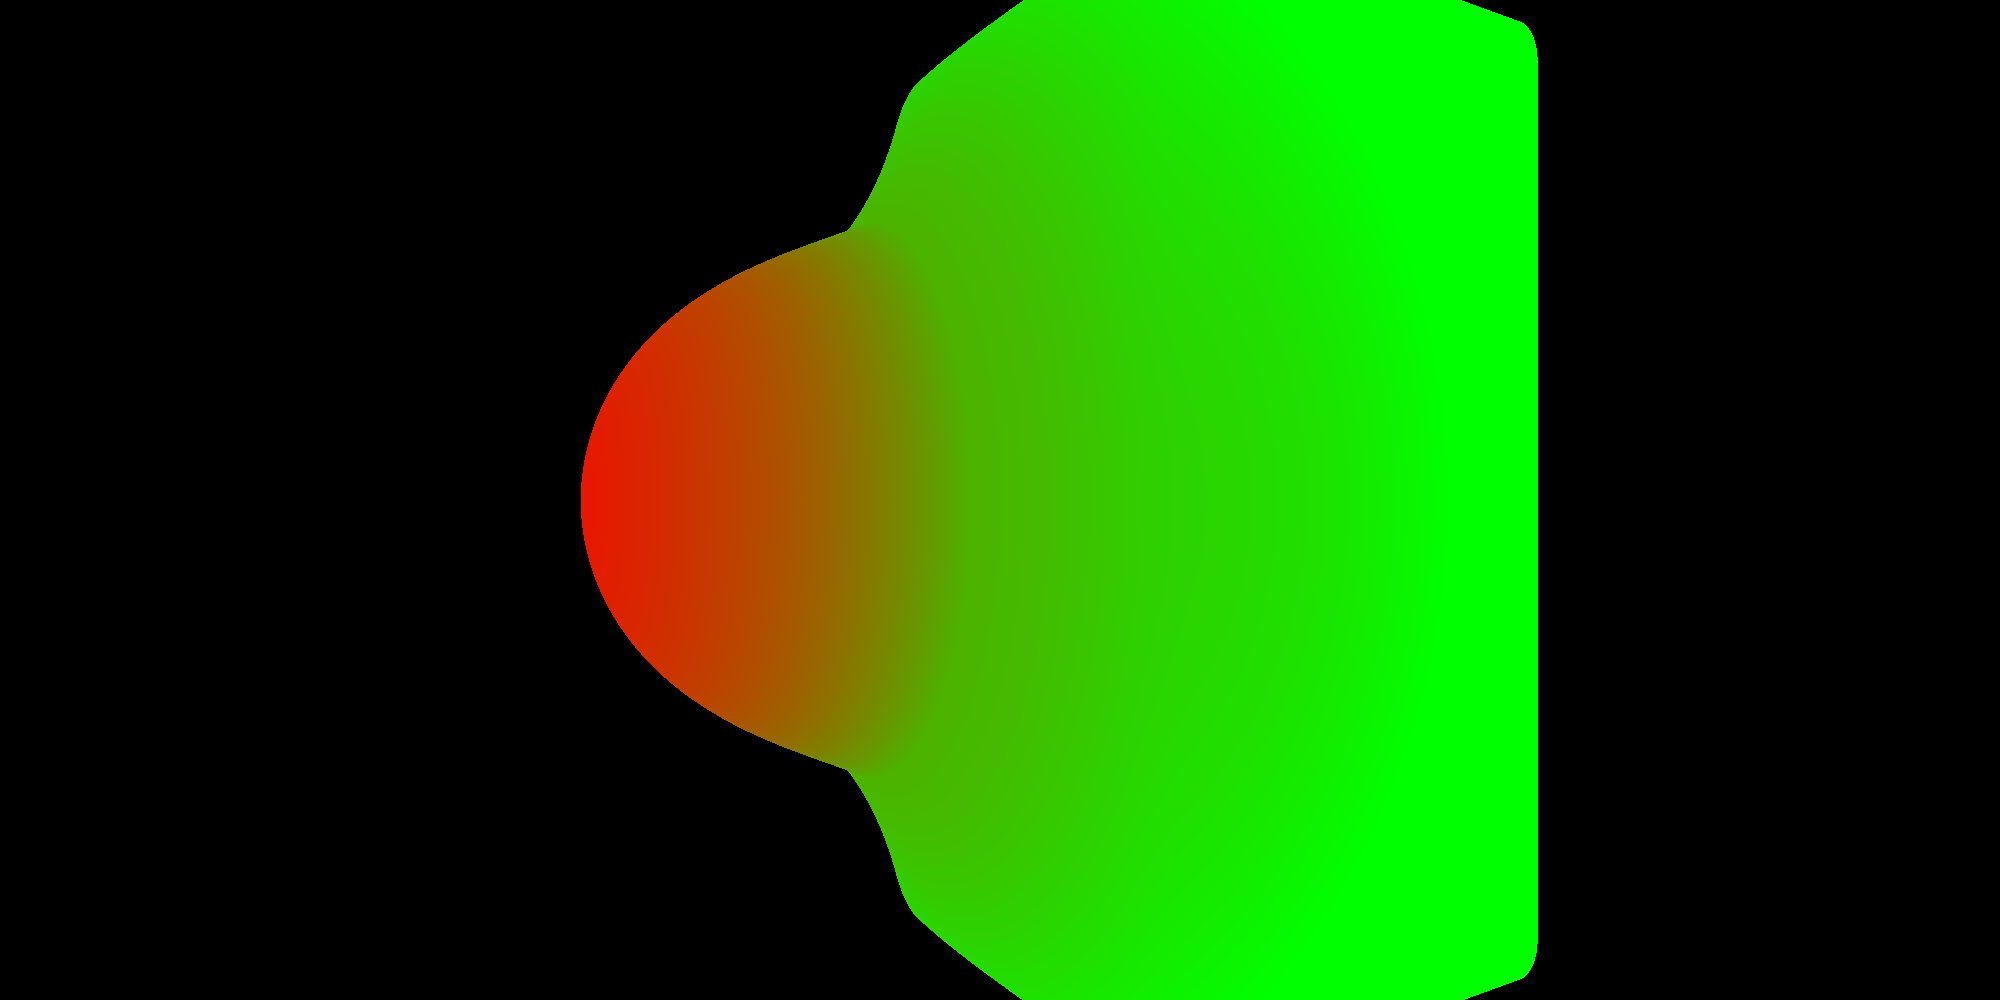
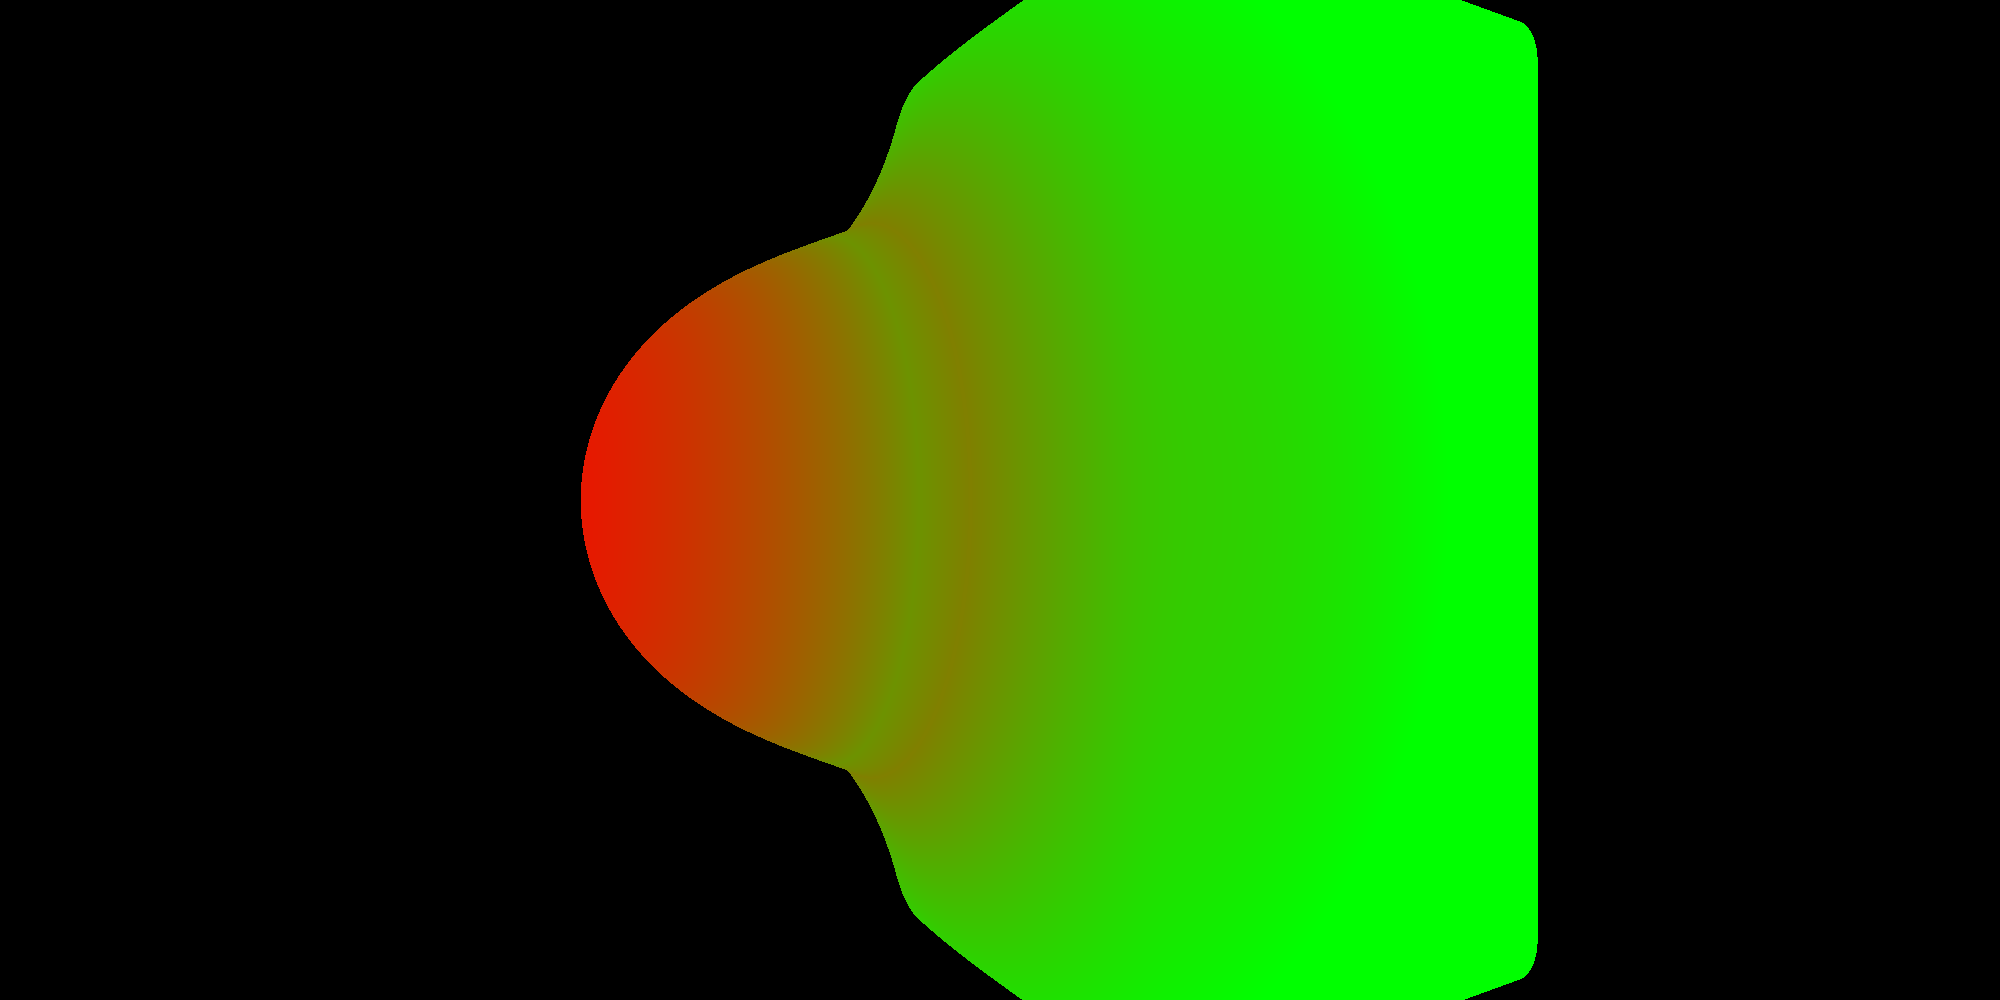
Issues with colour blending are a bit better but not fixed, im dumb

Changed region(s): [[0.403, 0.155, 0.558, 0.868]]

diff --git a/src/scene.rs b/src/scene.rs
@@ -329,13 +329,21 @@ impl Scene {
                         let h = (k - (left_dist - right_dist).abs()).max(0.0) / k;
                         let new_min = left_dist.min(right_dist) - h * h * k * (1.0 / 5.0);
                         //mix between the two colours
+
+                        let mean_col = (left_col + right_col) / 2.0;
+
                         let how_close_to_left =
-                            (left_dist - new_min) / (left_dist - right_dist).abs();
+                            ((left_dist - new_min) / (left_dist - right_dist).abs()).min(1.0);
                         //println!("{}", how_close_to_left);
                         let how_close_to_right = 1.0 - how_close_to_left;
 
+                        if (left_dist - right_dist).abs() < 0.01 {
+                            println!("dist : {} {}", left_dist, right_dist);
+                            println!("close : {} {}", how_close_to_left, how_close_to_right);
+                            return (new_min, mean_col);
+                        }
+
                         // mix between the two colours with k as the factor
-                        let mean_col = (left_col + right_col) / 2.0;
                         let col = left_col * how_close_to_right + right_col * how_close_to_left;
                         let col = mean_col * (h) + col * (1.0 - h);
 

diff --git a/src/main.rs b/src/main.rs
@@ -86,5 +86,33 @@ fn main() {
     scene.camera.rotate(0.0, 0.0);
     let render = scene.render(WIDTH, HEIGHT);
     render.to_png(WIDTH, HEIGHT, "renders/output2");
+
     println!("{scene:?}");
+
+    let mut scene = Scene::empty();
+    let mut object1 = Object::new(
+        Vec3::new(-1.0, 0.0, -4.0),
+        Quat::identity(),
+        Vec3::new(1.0, 1.0, 1.0),
+        Shape::Sphere,
+    );
+    object1.fragment_shader = Rc::new(|point| Vec3::new(1.0, 0.0, 0.0));
+    let mut object2 = Object::new(
+        Vec3::new(1.0, 0.0, -4.0),
+        Quat::rot_y(0.5),
+        Vec3::new(1.0, 1.0, 1.0),
+        Shape::Sphere,
+    );
+    object2.fragment_shader = Rc::new(|point| Vec3::new(0.0, 0.0, 1.0));
+    scene.scene = TreeNode::Node(ObjectTree {
+        operation: scene::Operation::SmoothUnion(2.0),
+        left: Box::new(TreeNode::Leaf(object1)),
+        right: Box::new(TreeNode::Leaf(object2)),
+    });
+
+    scene.camera.set_aspect_ratio(WIDTH, HEIGHT);
+    scene.camera.position = Vec3::new(0.0, 0.0, 1.0);
+    scene.camera.rotate(0.0, 0.0);
+    let render = scene.render(WIDTH, HEIGHT);
+    render.to_png(WIDTH, HEIGHT, "renders/output3");
 }
